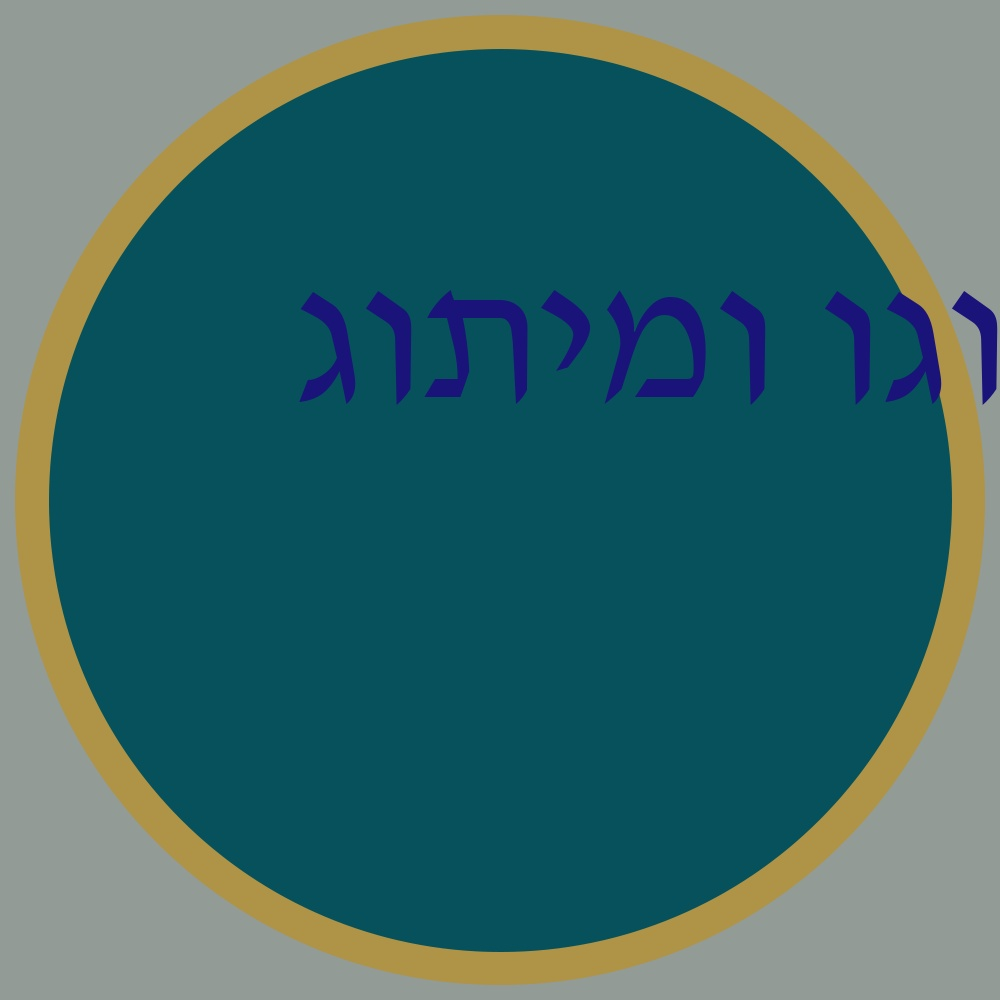
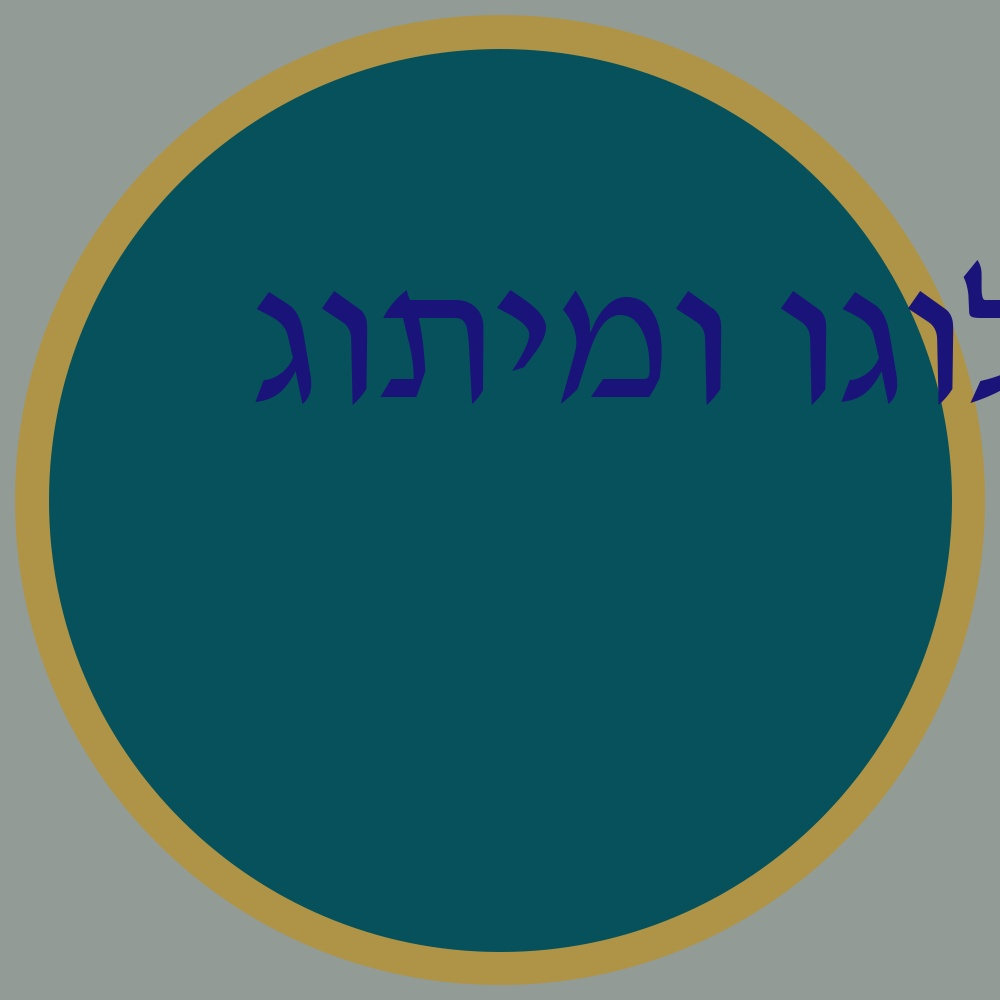
making the code better?

Changed region(s): [[0.248, 0.248, 1.0, 0.403]]

diff --git a/main.py b/main.py
@@ -61,7 +61,12 @@ def TestTextToIcon(Text, TemplateImage, Font, FilePath):
     draw = ImageDraw.Draw(im_p)
     monospace = ImageFont.truetype(Font,200)
 
-    draw.text((250,250),Text,(122, 19, 25),font=monospace,align='center')
+    draw.text(
+        (250,250), # text space
+        Text, # the words themeseves 
+        (122, 19, 25), # colour in rbg
+        font=monospace, # which font
+        align='right') # alignement (does nothing lmao)
 
     
     
@@ -69,6 +74,6 @@ def TestTextToIcon(Text, TemplateImage, Font, FilePath):
     result_o = np.array(im_p)
     cv2.imwrite(FilePath, result_o)
 
-StringToBeRevesed = """ לוגו ומיתוג """[::-1]
+StringToBeRevesed = """לוגו ומיתוג"""[::-1]
 
 TestTextToIcon(StringToBeRevesed, "Template.png","fonts/david.ttf","pfp.jpg")
